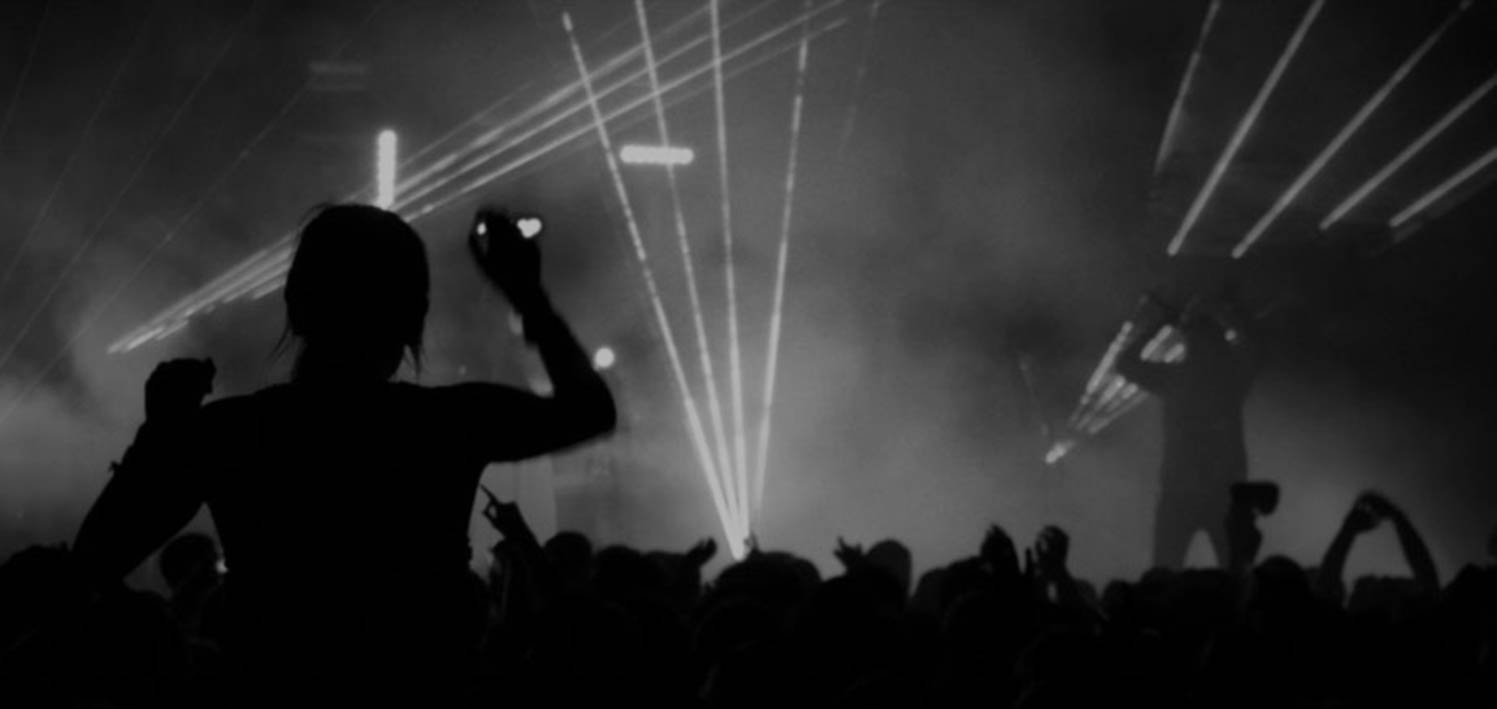
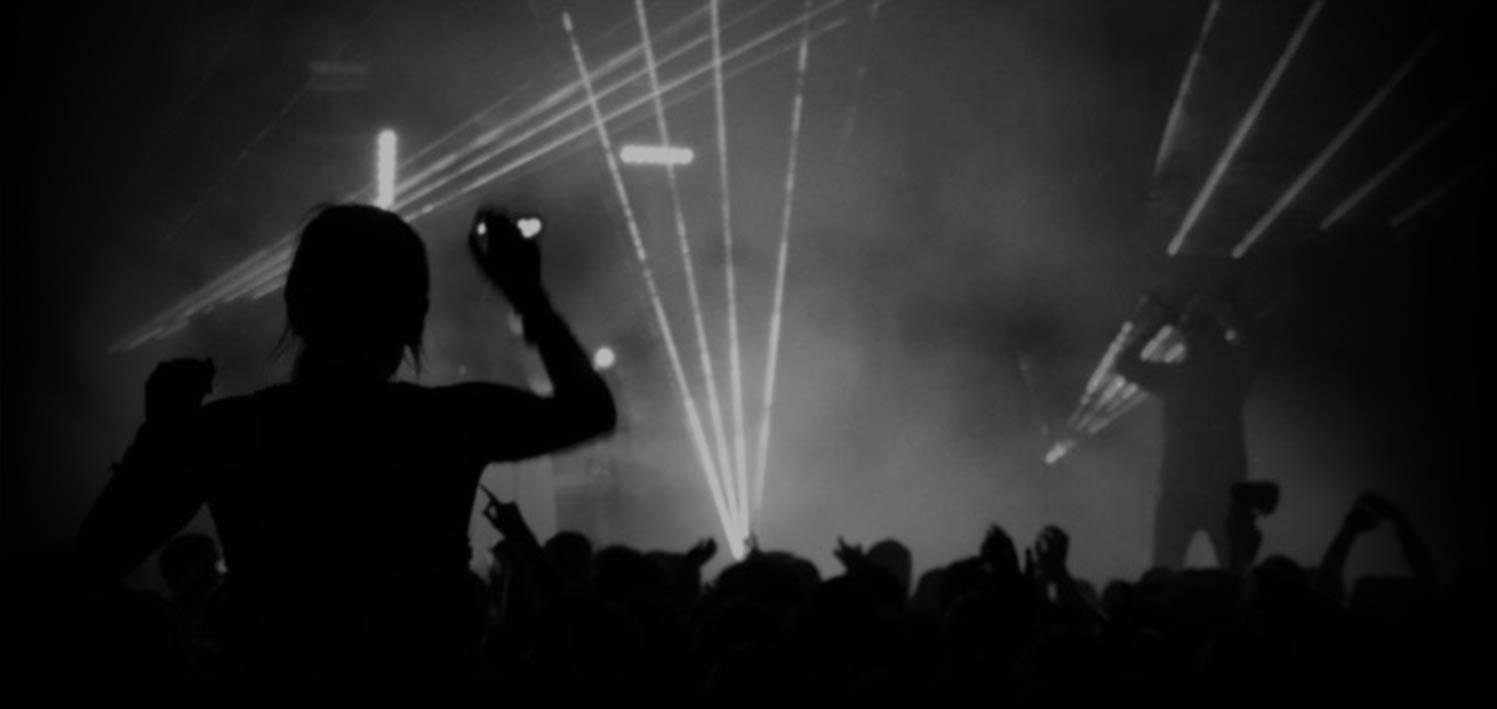
fading background image

diff --git a/Styles/Site.css b/Styles/Site.css
@@ -14,6 +14,7 @@ body
     font-family: "Helvetica Neue", "Lucida Grande", "Segoe UI", Arial, Helvetica, Verdana, sans-serif;
     margin: 0px;
     padding: 0px;
+    background-color: #010101;
     /*color: #696969;*/
 }
 
@@ -379,8 +380,8 @@ overflow:auto;
 
         .artist_item {
             background-color: white;
-        overflow:hidden;
-        padding: 5px;
+            overflow:hidden;
+            /*padding: 5px;*/
         }
 
         .artist_item:link {
@@ -401,6 +402,8 @@ text-decoration:underline;
 
 .artist_name {
     font-weight:bold;
+    position: relative;
+    top: -4px;
 }
 
         .playing{
@@ -421,14 +424,14 @@ text-decoration:underline;
         white-space: nowrap;
         /*color: #70b2e1;*/
         padding:0px 2px 2px 2px;
-        margin:4px 2px 0px 2px;
+        margin:4px 2px -4px 2px;
         font-weight:bold;
         /*display: inline;*/
         /*float: left;*/
         display:inline-block;
         font-size: 0.9em;
         position:relative;
-        top:-2px;
+        top:-6px;
     }
 
 .artist_genre {
@@ -720,7 +723,7 @@ a .ui-tabs-anchor {
     border: 0px;
     padding: 0px;
     margin:0px;
-    width: 160px;
+    width: 130px;
     /*text-align: center;*/
 }
 
@@ -869,7 +872,7 @@ a .ui-tabs-anchor {
 }
 
 .filterHeader {
-    width: 185px;
+    width: 235px;
 }
 
 .songkickHeaderEmptyDiv {
@@ -889,7 +892,7 @@ a .ui-tabs-anchor {
 }
 
 .dateSearch {
-    width: 433px;
+    width: 383px;
 }
 
 .songkickDescription {
@@ -901,4 +904,16 @@ a .ui-tabs-anchor {
     background-color:white;
     /*color:green;*/
     color: black;
+}
+
+/* mods to icons */
+
+.sprite-icons-Play-Button {
+    position: relative;
+    /*top: 4px;*/
+}
+
+.sprite-icons-Speaker-Square {
+    position: relative;
+    /*top: 3px;*/
 }

diff --git a/Scripts/GigCast.js b/Scripts/GigCast.js
@@ -22,7 +22,7 @@ var artistIndex = 0;
 
 var preLoadEventSKID;
 
-var headerDateFormatString = "DD, MM dd"
+var headerDateFormatString = "DD, M dd"
 
 var queryId = "";
 
@@ -1406,7 +1406,8 @@ function populateLastFMInfo(artistNode) {
         // $("#info_artist").append(myLinkTmpl);
         $('#infoLastfmLink').get(0).href = artistNode.artist.url;
     } else {
-        $('#infoLastfmLink').get(0).removeAttr("href");
+        // if ()
+        $('#infoLastfmLink').removeAttr("href");
         // $('#infoLastfmLink').removeClass().addClass()
     }
 }
